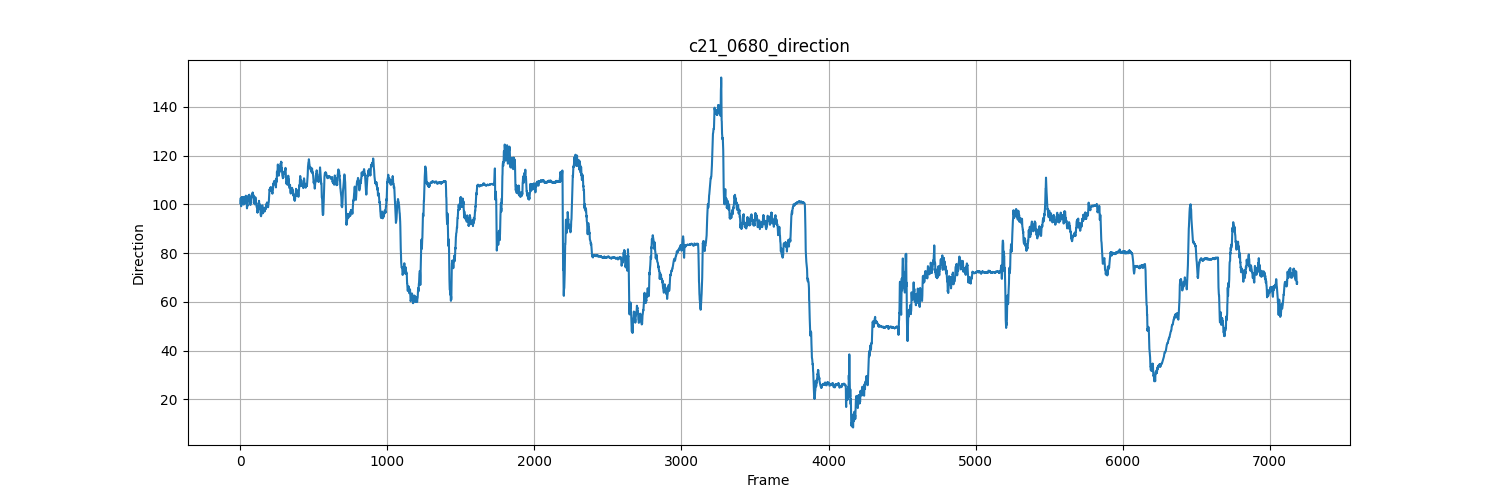
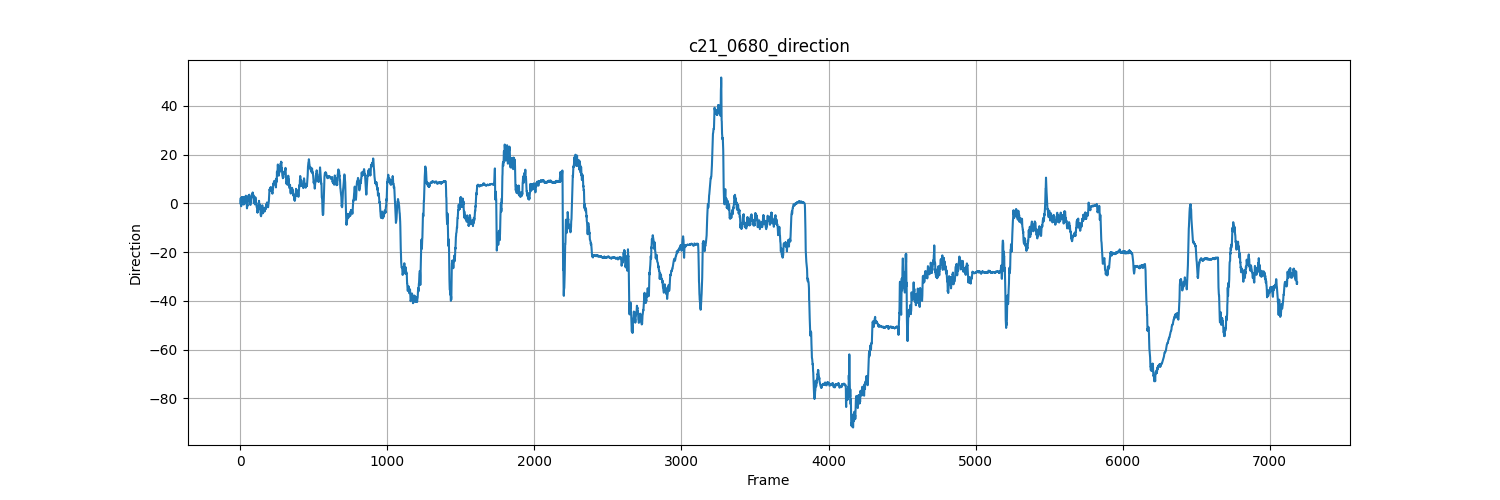
commit

diff --git a/temp.py b/temp.py
@@ -7,6 +7,9 @@ import pandas as pd
 direction_path = 'expert_data_builder/movement/c21/PIC0680_Heading_direction.csv'
 direction = pd.read_csv(direction_path, index_col=0, header=0).to_numpy()
 
+# set the initial direction to 0
+direction = direction - direction[0]
+
 # plot the data
 plt.figure(figsize=(15, 5))
 plt.plot(direction)
